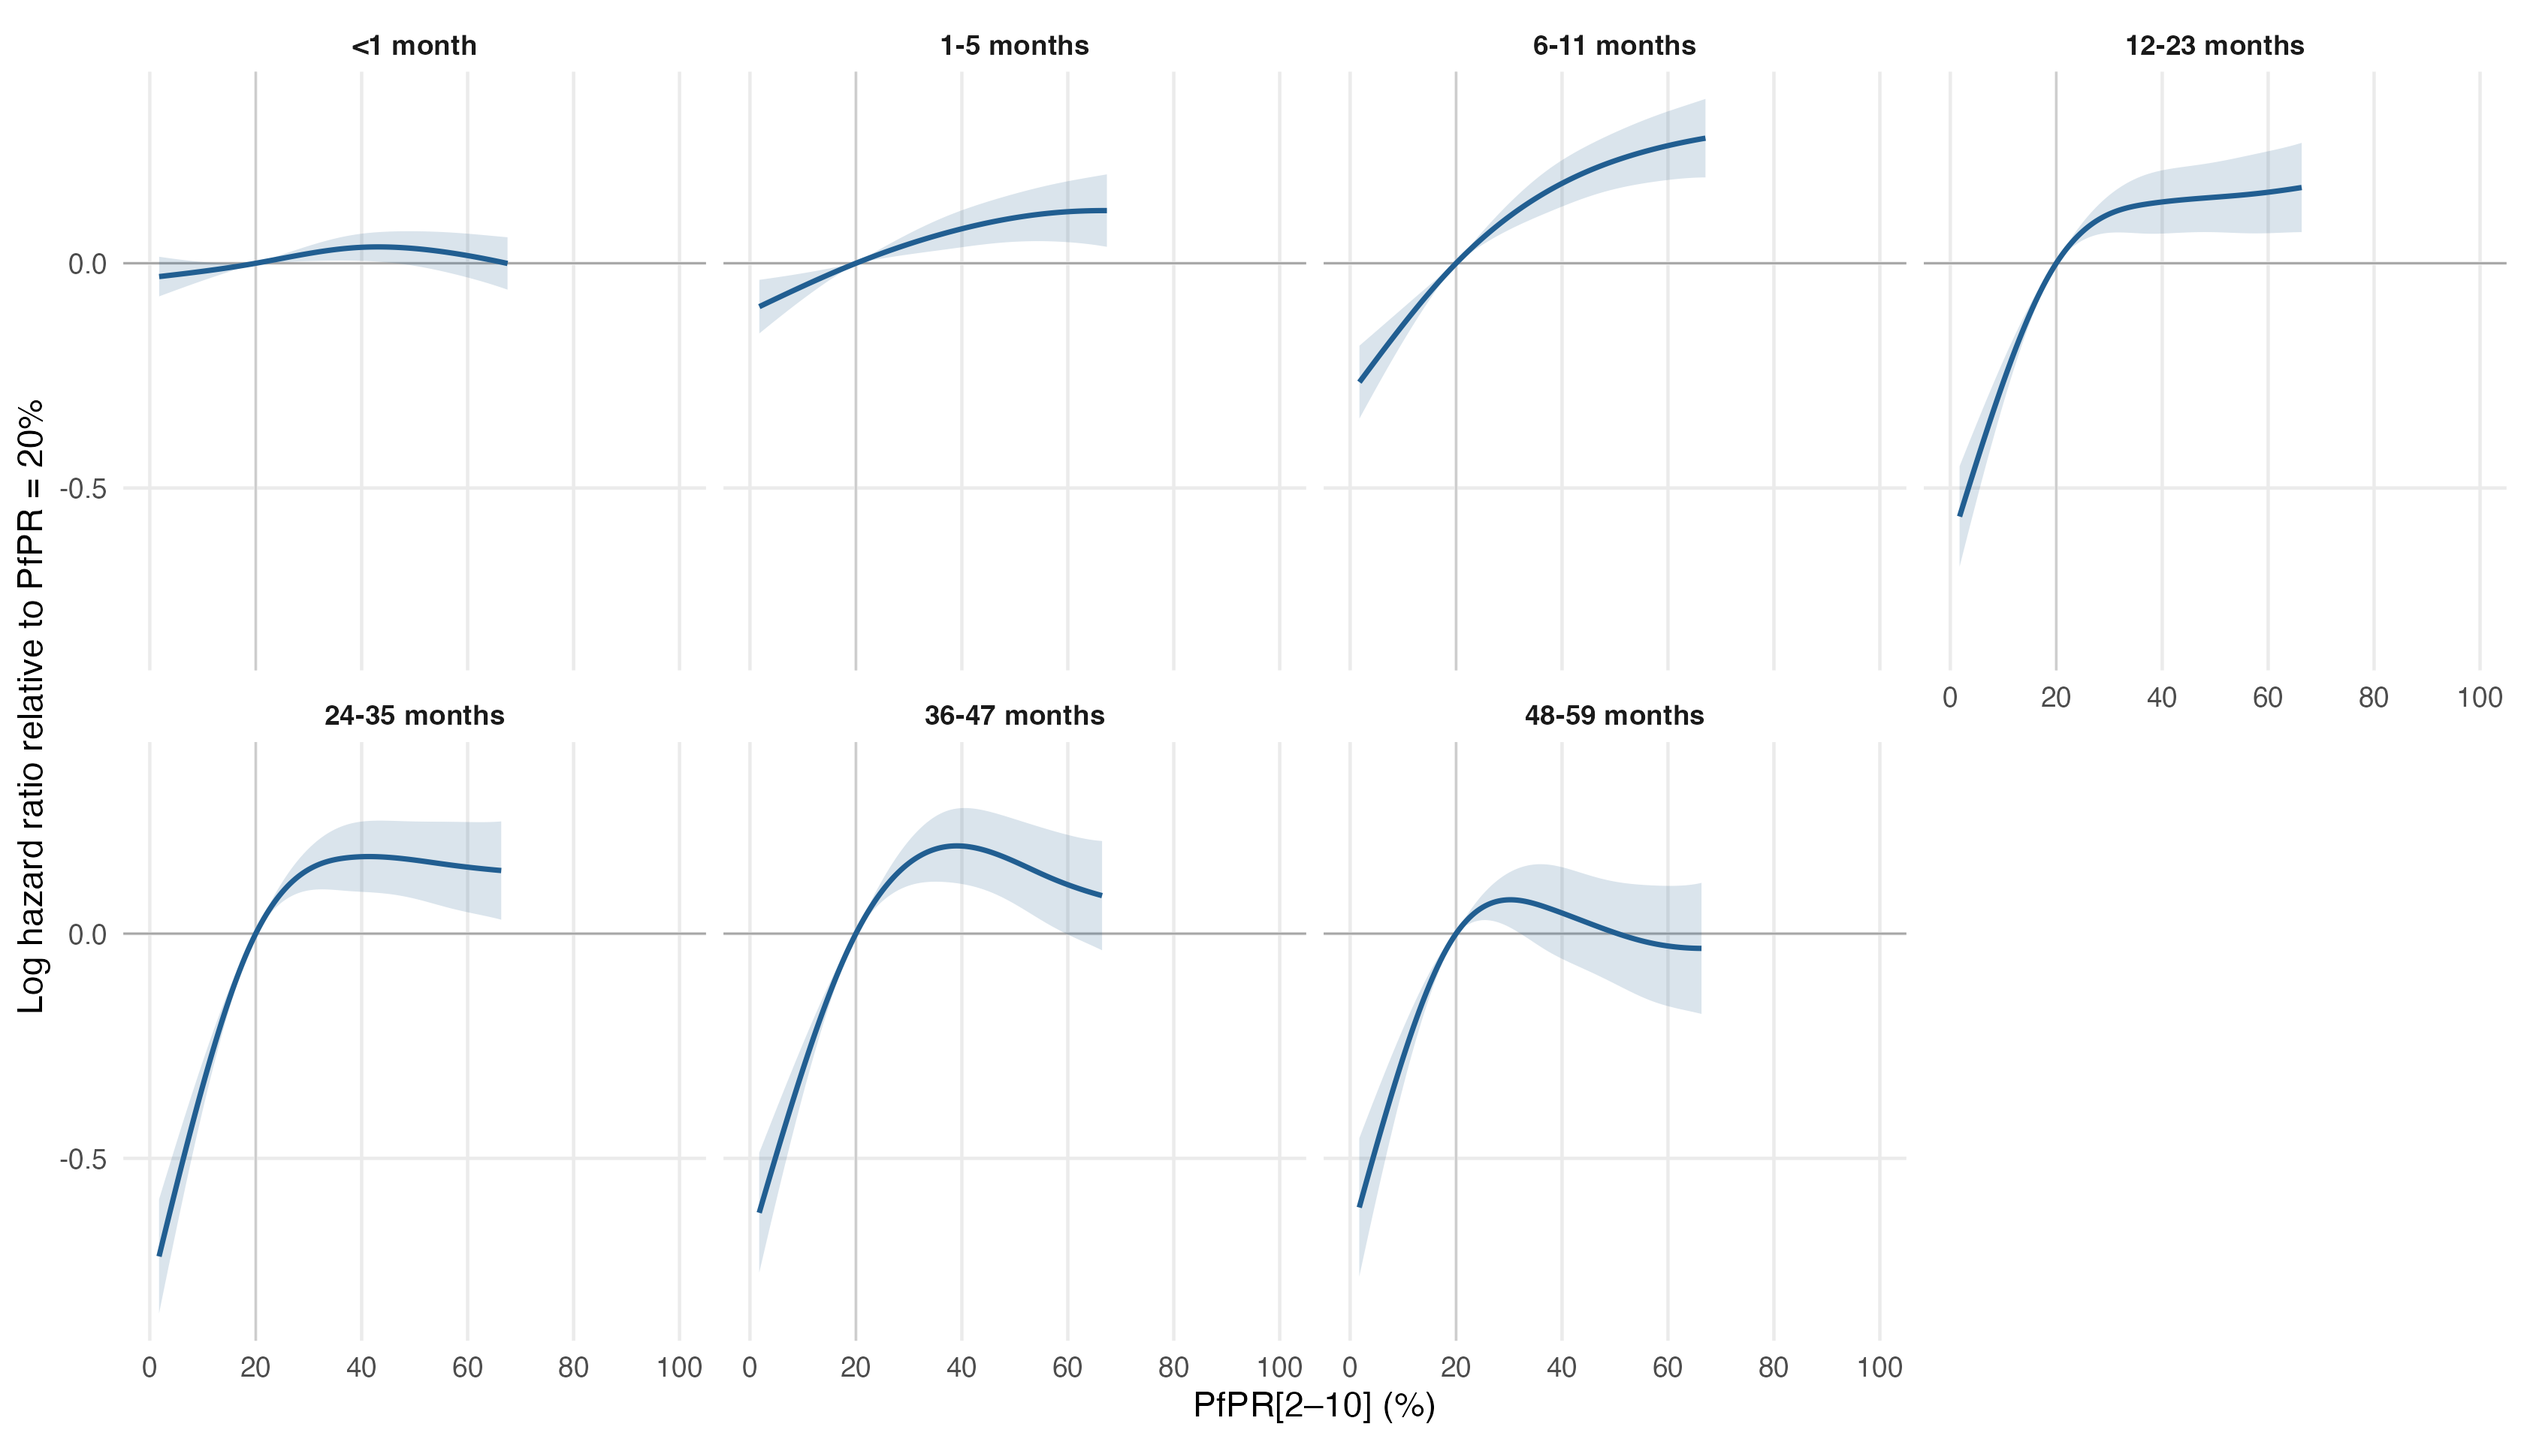
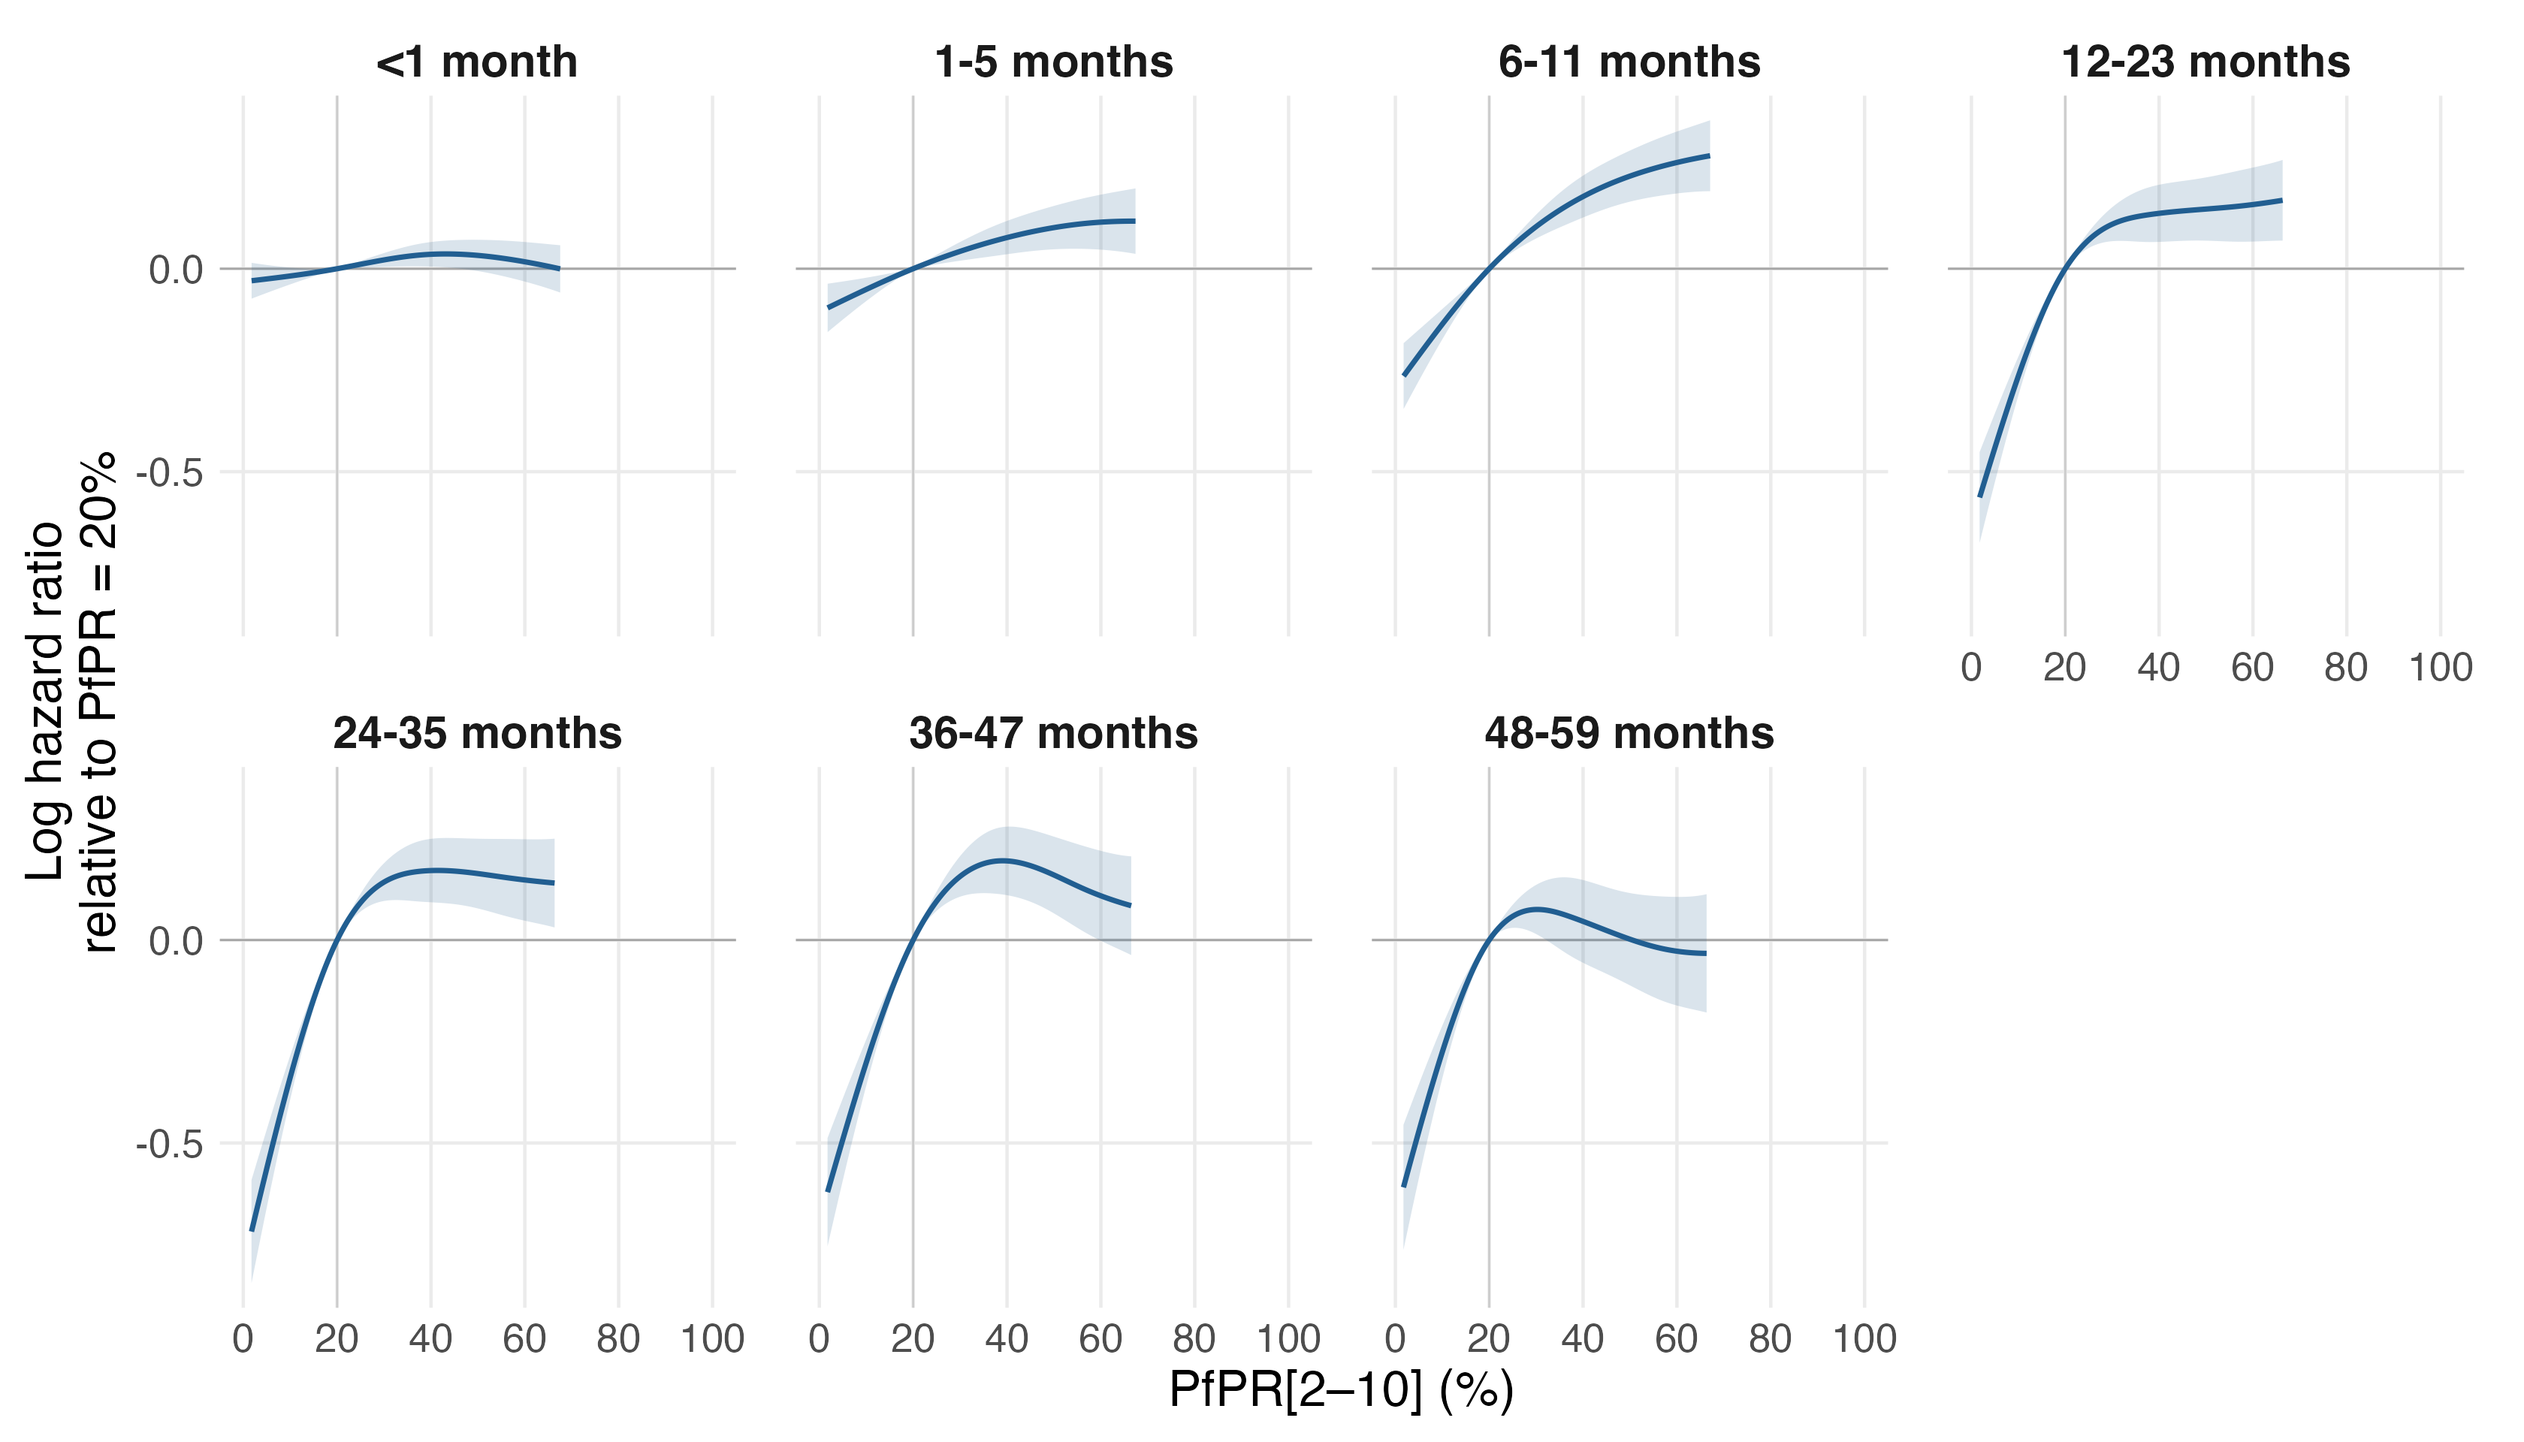
Increase fonts across the three manuscript figures

diff --git a/R_cbh/primary/README.md b/R_cbh/primary/README.md
@@ -32,3 +32,5 @@ The fixed HIV imputation, unweighted likelihood, conditional covariance, inherit
 `03_report.R` exports the primary PfPR and country-versus-IHME figures without titles, subtitles or embedded captions. Both country-comparison axes use a true log10 scale and common limits starting at 1,000 deaths; points below the minimum on either axis are outside the plotting window, with their estimates retained in the tables; missing/nonpositive pairs are listed in `burden/log10_plot_exclusions.csv`. The other mortality figures retain their existing scales.
 
 `04_diagnostics.R` exports the aggregate union of included regions per survey. `reporting/03_survey_map.R` combines this with the registry and existing country outlines to regenerate the survey map for the current primary sample (105 surveys/34 countries), without fitting or rebuilding individual records. `reporting/04_paper_figures.R` records the three figure filenames, source hashes and separate captions. These stages are included in the primary runner. The runner writes only inside this project; copying the three PNGs to Overleaf is a separate explicit action and never edits TeX.
+
+Manuscript typography: 20 pt axis titles, 16 pt ticks and legend text, and 18 pt age/year facet labels. Map labels use 4.5 mm text and Figure 3 country labels use 5 mm text. Figure widths are unchanged; Figure 1 is taller (13 × 10 inches) to accommodate the larger timeline labels and stacked legends.
